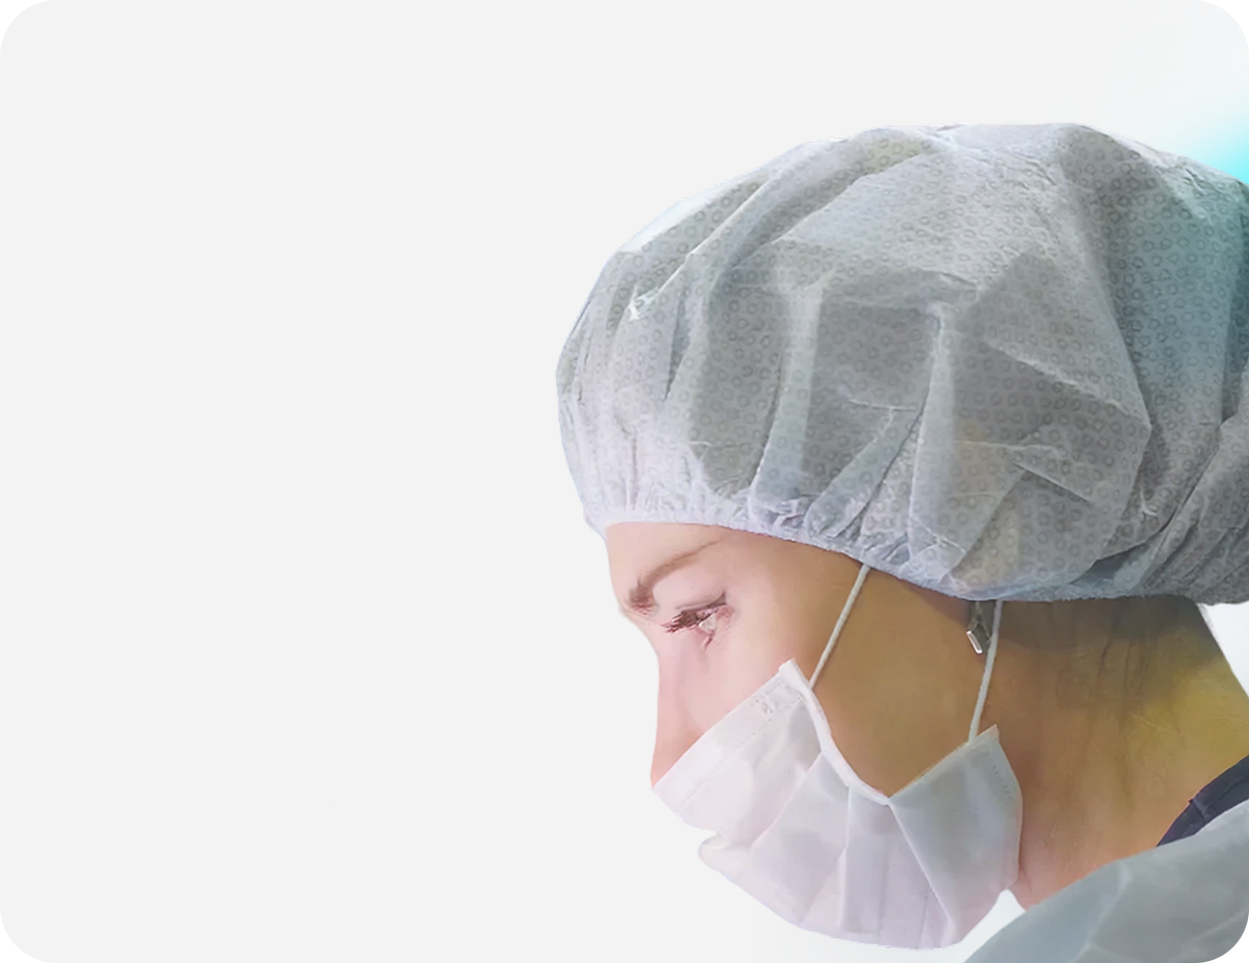
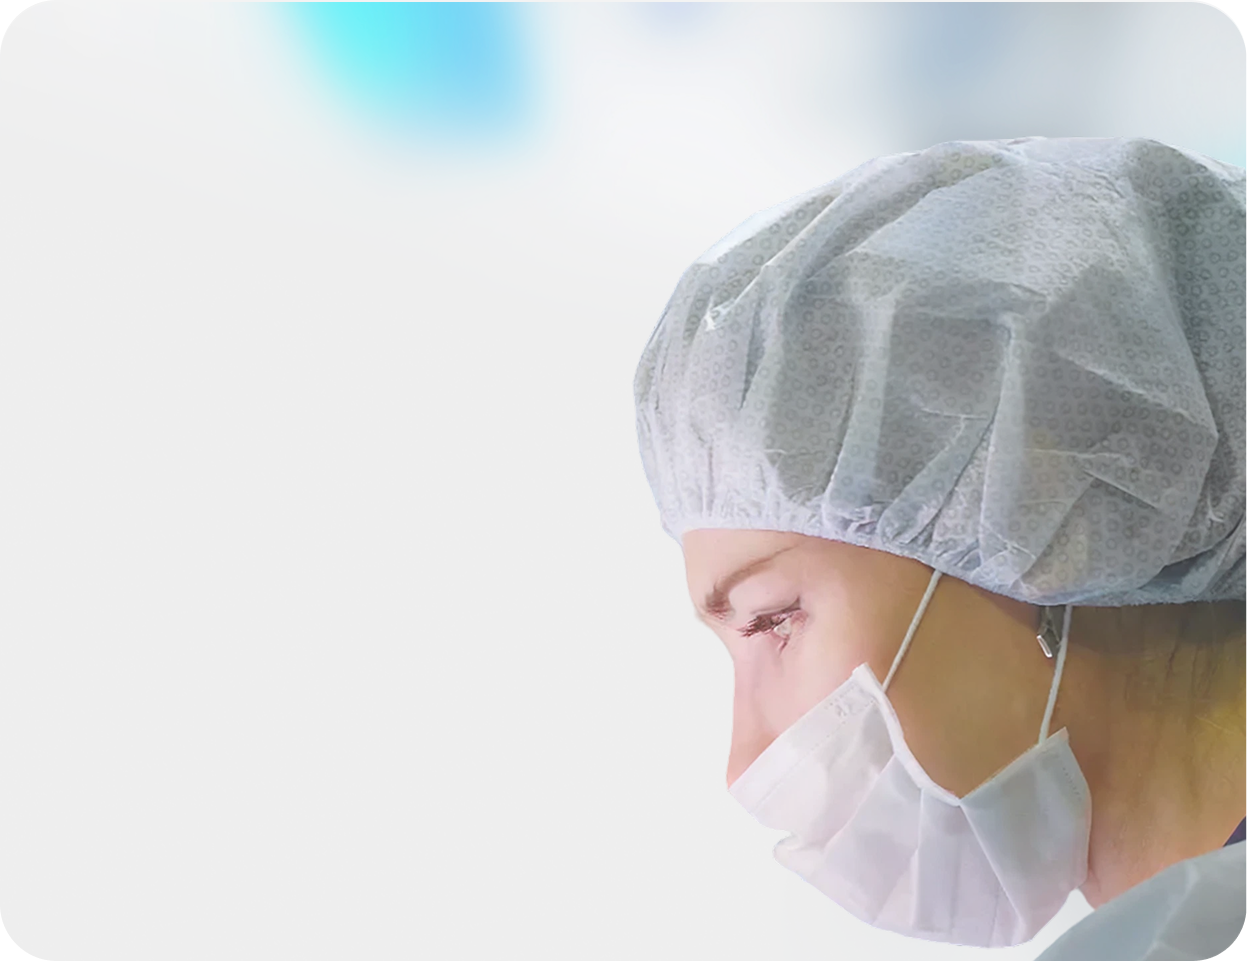
fix: resolve white screen and refine nurse dashboard UI to match design

Changed region(s): [[0.4266, 0.0, 1.0, 1.0], [0.2133, 0.0, 0.4571, 0.1873], [0.518, 0.0, 0.579, 0.0312]]

diff --git a/src/pages/CategoryReview.jsx b/src/pages/CategoryReview.jsx
@@ -9,7 +9,8 @@ import {
     Calendar,
     ChevronLeft,
     Search,
-    Filter
+    Filter,
+    Phone
 } from 'lucide-react';
 import { supabase } from '../lib/supabase';
 import welcomeCardInfirmier from '../assets/welcomecard-infirmier.png';
@@ -113,9 +114,12 @@ export default function CategoryReview() {
                             <div className="welcome-banner-content">
                                 <div></div>
                                 <div>
-                                    <div className="welcome-banner-welcome">Bonjour,</div>
-                                    <div className="welcome-banner-greeting">Espace Infirmier</div>
-                                    <div className="welcome-banner-instruction">Suivi des patients actifs et alertes</div>
+                                    <div className="welcome-banner-welcome">Bienvenue,</div>
+                                    <div className="welcome-banner-name" style={{ fontSize: 'var(--font-size-xl)', marginBottom: 'var(--spacing-6)' }}>
+                                        Prénom/Nom de l'infirmier(ère)
+                                    </div>
+                                    <div className="welcome-banner-greeting">Ravi de vous revoir !</div>
+                                    <div className="welcome-banner-instruction">Consultez votre Espace Infirmier</div>
                                 </div>
                                 <div>
                                     <div className="welcome-banner-date-label">Date d'aujourd'hui</div>

diff --git a/src/index.css b/src/index.css
@@ -1719,7 +1719,7 @@ textarea.input {
 }
 
 .welcome-banner-clean {
-  background: white !important;
+  background: #fcfcfc !important;
   color: #000000 !important;
   box-shadow: var(--shadow-sm) !important;
   border: 1px solid var(--color-gray-100) !important;
@@ -1728,7 +1728,8 @@ textarea.input {
   justify-content: space-between !important;
   align-items: center !important;
   overflow: hidden !important;
-  padding: var(--spacing-4) !important;
+  padding: var(--spacing-6) !important;
+  /* Slightly more padding for the new layout */
 }
 
 .welcome-banner-clean::after {
@@ -1755,7 +1756,8 @@ textarea.input {
 }
 
 .welcome-banner-clean .welcome-banner-image {
-  object-position: right center !important;
+  object-position: right 20% center !important;
+  /* Fine-tuned alignment */
   width: 100% !important;
   height: 100% !important;
   object-fit: cover !important;
